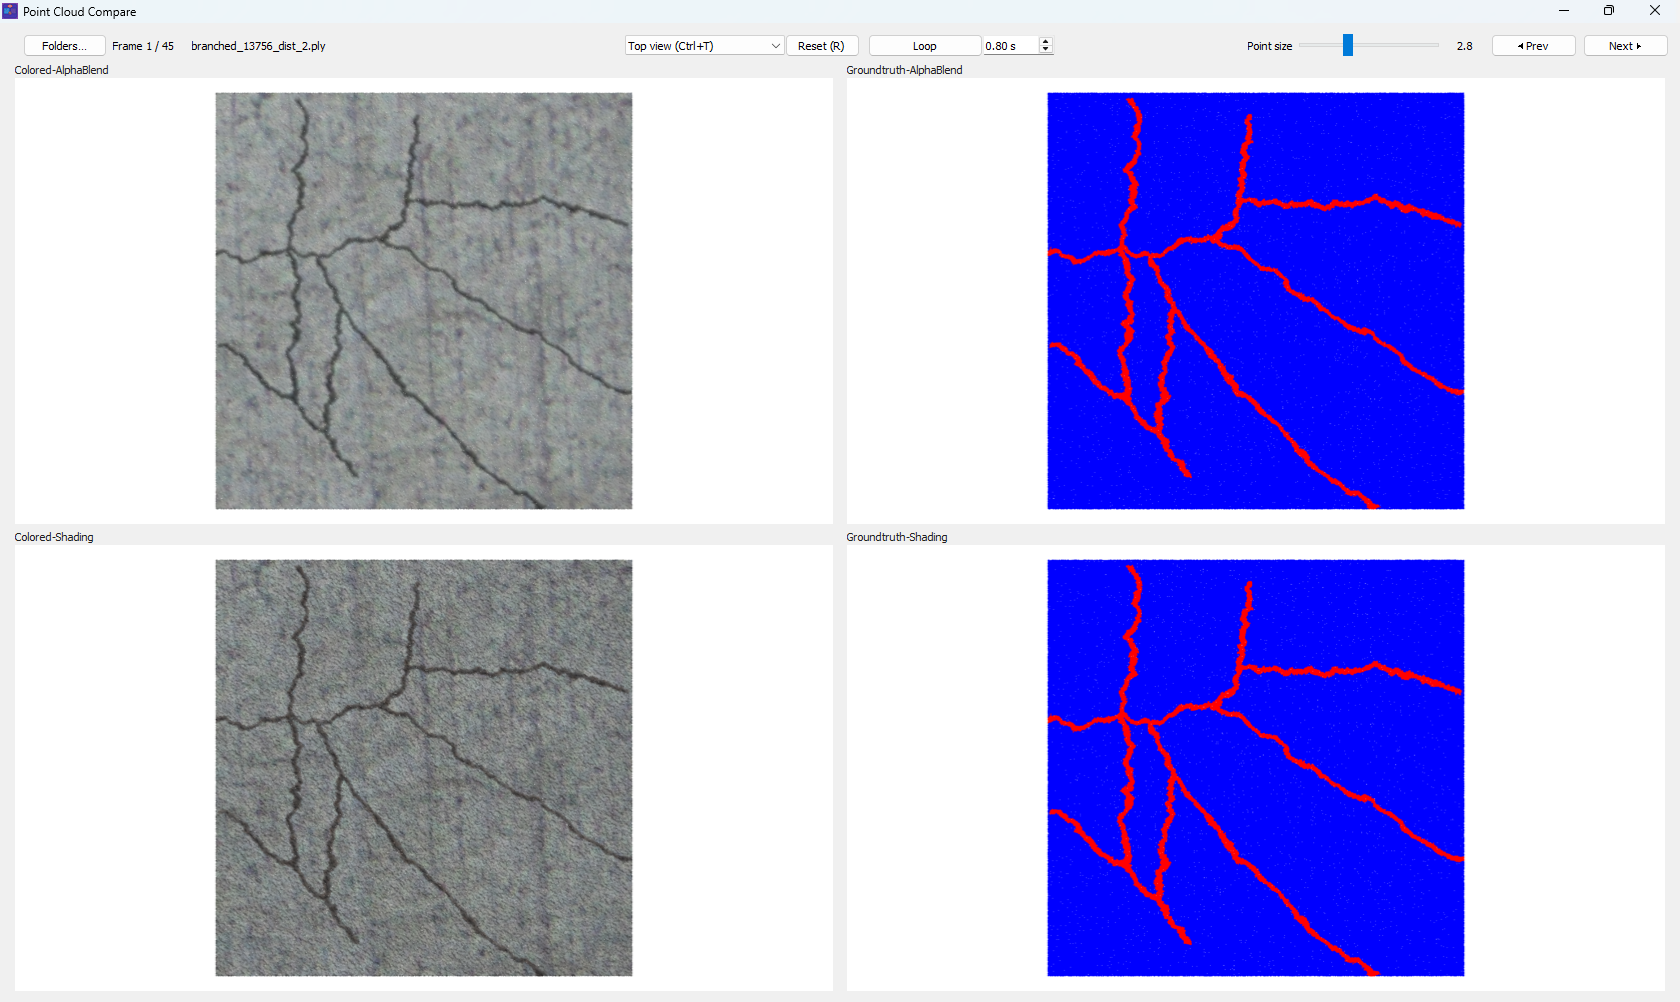
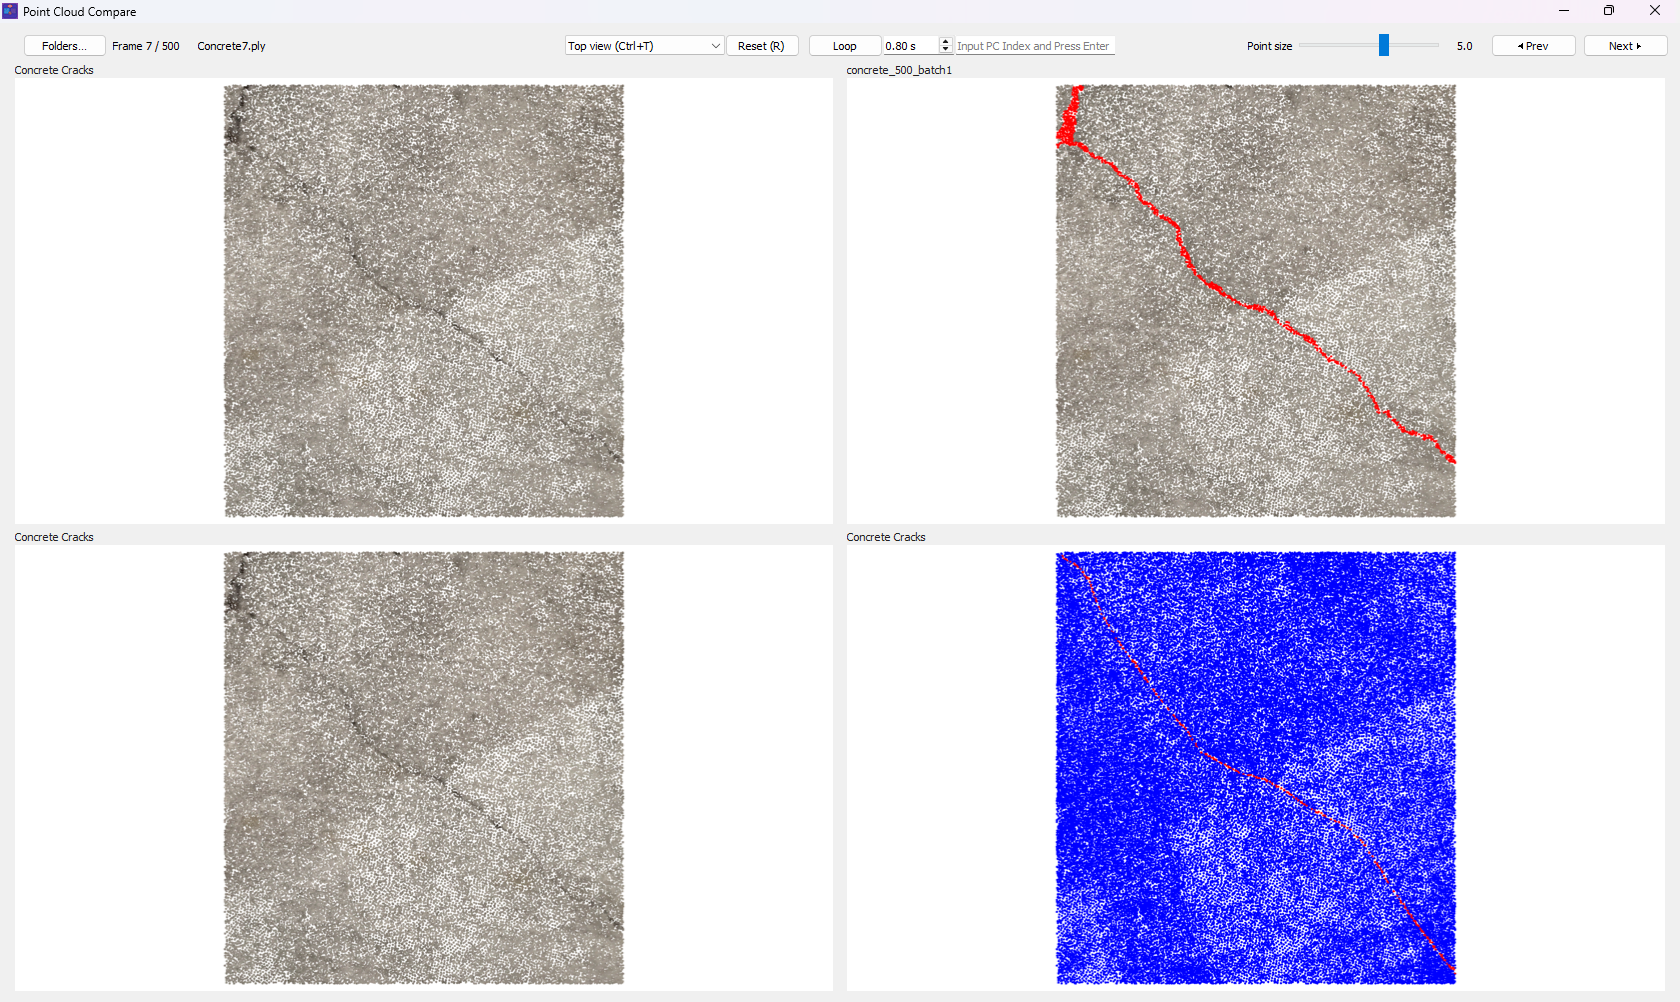
Added jump to point cloud text box.

diff --git a/python/app.py b/python/app.py
@@ -437,13 +437,20 @@ class MainWindow(QtWidgets.QWidget):
         self.spin_pause.setFocusPolicy(QtCore.Qt.ClickFocus)   # allow clicking to type
         self.spin_pause.setKeyboardTracking(False)             # commit on Enter/focus-out
     
+        # NEW: jump-to-index textbox
+        self.edit_jump = QtWidgets.QLineEdit()
+        self.edit_jump.setPlaceholderText("Input PC Index and Press Enter")
+        self.edit_jump.setFixedWidth(190)
+        self.edit_jump.setClearButtonEnabled(True)
+        self.edit_jump.setFocusPolicy(QtCore.Qt.ClickFocus)
+
         # CENTER (fixed-width optical center)
         center = QtWidgets.QHBoxLayout()
         center.setContentsMargins(0, 0, 0, 0)
 
         # ---- fixed-width container ----
         center_box = QtWidgets.QWidget()
-        center_box.setFixedWidth(430)   # <<< key: tune once, stays perfect
+        center_box.setFixedWidth(550)   # <<< key: tune once, stays perfect
         center_box_layout = QtWidgets.QHBoxLayout(center_box)
         center_box_layout.setContentsMargins(0, 0, 0, 0)
         center_box_layout.setSpacing(8)
@@ -459,6 +466,7 @@ class MainWindow(QtWidgets.QWidget):
         right_grp.setSpacing(0)
         right_grp.addWidget(self.btn_loop)
         right_grp.addWidget(self.spin_pause)
+        right_grp.addWidget(self.edit_jump)
 
         # --- assemble ---
         center_box_layout.addLayout(left_grp)
@@ -601,6 +609,7 @@ class MainWindow(QtWidgets.QWidget):
         self.loop_timer.setInterval(800)
         self.loop_timer.timeout.connect(self._advance_or_stop)
         self.btn_loop.toggled.connect(self.toggle_loop)
+        self.edit_jump.returnPressed.connect(self._jump_to_index)
 
         def _apply_pause():
             self.loop_timer.setInterval(int(self.spin_pause.value() * 1000))
@@ -794,6 +803,22 @@ class MainWindow(QtWidgets.QWidget):
         cam = pv.Camera()
         cam.SetParallelProjection(True)    # orthographic, like TurntableCamera fov=0
         return cam
+
+    def _jump_to_index(self):
+        if self.num_frames == 0:
+            return
+
+        txt = self.edit_jump.text().strip()
+        if not txt.isdigit():
+            return
+
+        idx = int(txt) - 1   # user sees 1-based indexing
+        if 0 <= idx < self.num_frames:
+            self.idx = idx
+            self.update_frame()
+
+        self.edit_jump.clear()
+        self.setFocus(QtCore.Qt.OtherFocusReason)  # ← restore arrow-key nav
 
     def toggle_loop(self, checked: bool):
         if checked and self.num_frames > 0:

diff --git a/README.md b/README.md
@@ -7,7 +7,7 @@ This tool is designed for workflows where you want to compare **two different me
 - an **original** point cloud (input/output)
 - an **annotation** point cloud (ground truth / labels / recolored semantics)
 
-It supports **1–4 folders**, automatically builds a consistent frame list by **matching files by basename**, and keeps all view panes synchronized with a **linked orthographic camera**.
+It supports **1–4 paired folders**, automatically builds a consistent frame list by **matching files by basename**, and keeps all view panes synchronized with a **linked orthographic camera**.
 
 ![overview](assets/overview_01.png)
 
@@ -75,6 +75,8 @@ It uses:
   - Slider updates all panes continuously
 - **Loop mode**
   - Automatically cycles frames at a configurable delay
+- **Jump to text box**
+  - Jumps to the point cloud index number
 - **Session persistence**
   - Remembers last selected folders and last viewed index
 
@@ -104,9 +106,9 @@ A common usage is to compare **two methods**, where each method has **Original**
 Example:
 
 - Folder 0: `.../MethodA/Original`
-- Folder 1: `.../MethodA/Annotation`
+- Folder 1 (0 pair): `.../MethodA/Annotation`
 - Folder 2: `.../MethodB/Original`
-- Folder 3: `.../MethodB/Annotation`
+- Folder 3 (2 pair): `.../MethodB/Annotation`
 
 When used this way, the 2×2 view acts as:
 
@@ -230,7 +232,7 @@ python .\app.py
 Then:
 
 1. Click **Folders…**
-2. Multi-select **1–4 folders** (see “Recommended folder structure” above)
+2. Multi-select **pair folders** (see “Recommended folder structure” above)
 3. Use **Next ▶** / **◀ Prev** or **→ / ←** to navigate
 
 ### 6.2 Run with folders (CLI)
@@ -243,7 +245,7 @@ python .\app.py --folders "D:\data\MethodA\Original" "D:\data\MethodA\Annotation
 
 Notes:
 
-- You can pass 1–4 folders.
+- You can pass pair folders.
 - Only the **first four** are used.
 
 ---
@@ -286,6 +288,7 @@ Loop behavior:
 
 - Next frame: **Right Arrow (→)** or **Next ▶**
 - Previous frame: **Left Arrow (←)** or **◀ Prev**
+- Jump to index: Enter point cloud index number to jump
 
 ### 8.2 View / camera
 
@@ -441,7 +444,7 @@ Fix:
 This folder contains:
 
 - [app.py](python/app.py) — Main PyQt5 + PyVista point cloud compare viewer
-- [Point Cloud Compare.exe](<installer/Point Cloud Compare.exe>) — point cloud compare viewer installer
+- [Point Cloud Compare.exe](installer/Point Cloud Compare.exe) — point cloud compare viewer installer
 - `app.ico`, `icon.png` — Optional icons for packaging/window icon
 
 ---
